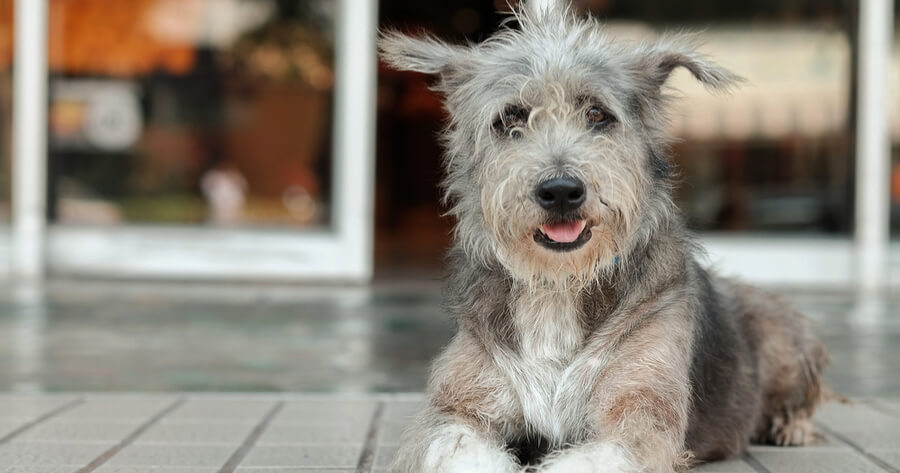
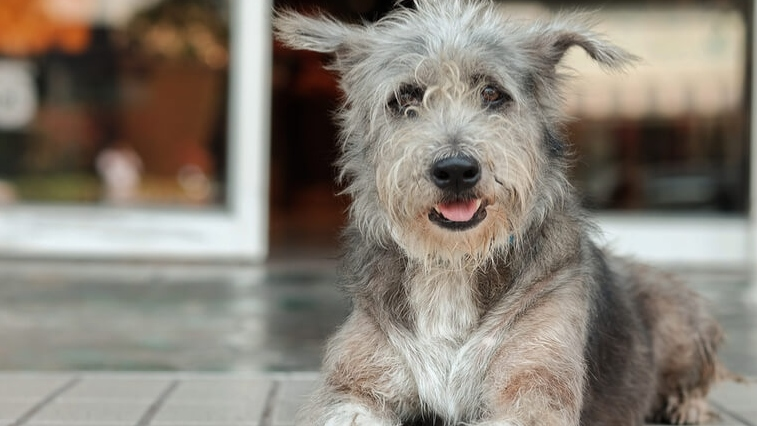
Formato fotos perro
Cambie el formato de las fotos implementadas en el carrusel de perros

diff --git a/perro.html b/perro.html
@@ -79,7 +79,7 @@
                                 </div>
                                 <div class="col-md-4 mb-3">
                                     <div class="card">
-                                        <img class="img-fluid" alt="100%x280" src="img/perro5.jpg">
+                                        <img class="img-fluid" alt="100%x280" src="img/p1.jpg">
                                         <div class="card-body">
                                             <h4 class="card-title">Leónidas</h4>
                                             <p class="card-text">Quisiera pasar mis dias a tu lado</p>
